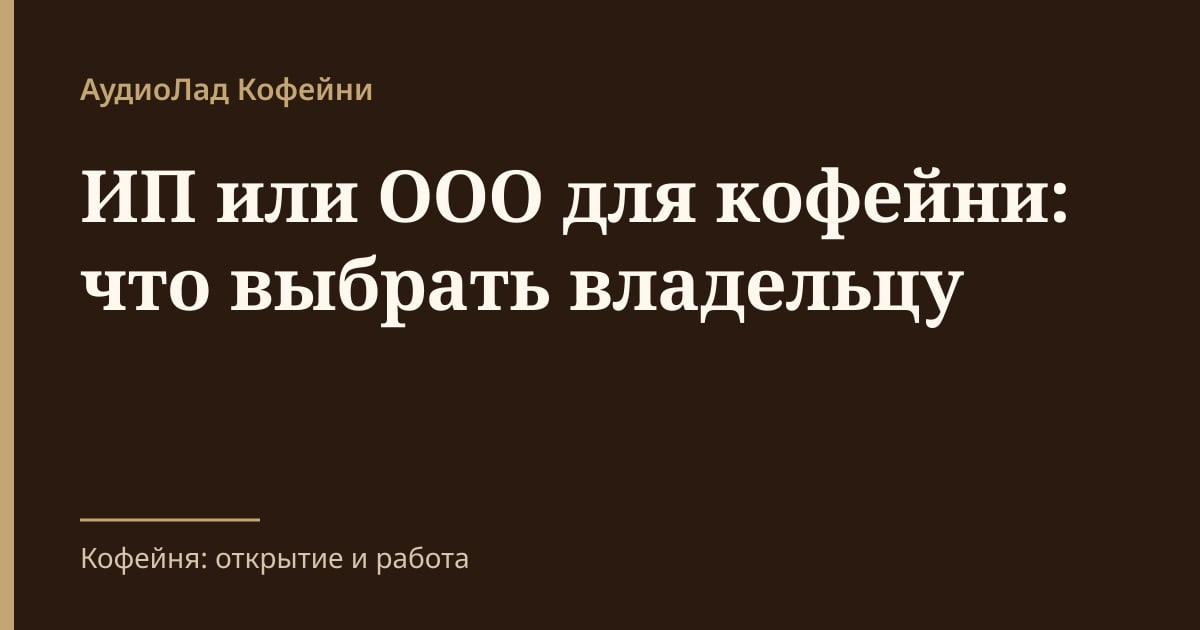
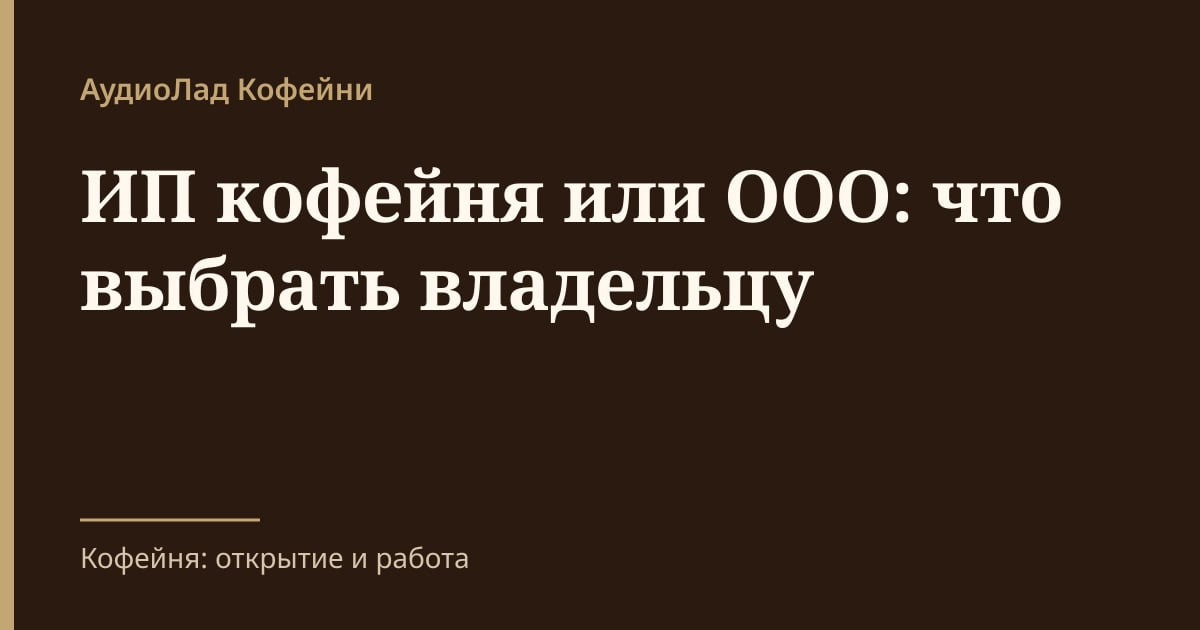
content(coffee): доводка набора №17 – шаблонные правки, unit 82

Changed region(s): [[0.0617, 0.2413, 0.8942, 0.5429]]

diff --git a/src/lib/business/vertical-guides/articles/ip-ili-ooo-dlya-kofeyni.ts b/src/lib/business/vertical-guides/articles/ip-ili-ooo-dlya-kofeyni.ts
@@ -8,9 +8,9 @@ import type { VerticalGuideArticle } from "../types";
 export const IP_ILI_OOO_DLYA_KOFEYNI: VerticalGuideArticle = {
   verticalId: "coffee",
   slug: "ip-ili-ooo-dlya-kofeyni",
-  title: "ИП или ООО для кофейни: что выбрать владельцу",
-  seoTitle: "Ип кофейня: как выбрать форму, налоги и учёт",
-  description: "Ип кофейня: как выбрать между предпринимателем и обществом, оценить ответственность, партнёров, прибыль, налоги и учёт для вашей кофейни.",
+  title: "ИП кофейня или ООО: что выбрать владельцу",
+  seoTitle: "ИП кофейня: как выбрать форму, налоги и учёт",
+  description: "ИП кофейня: как выбрать между предпринимателем и обществом, оценить ответственность, партнёров, прибыль, налоги и учёт для вашей кофейни.",
   publishedAt: "2026-11-11",
   updatedAt: "2026-11-11",
   primaryQuery: "ип кофейня",
@@ -28,13 +28,13 @@ export const IP_ILI_OOO_DLYA_KOFEYNI: VerticalGuideArticle = {
   },
   ogImage: {
     src: "/images/b/coffee/og/ip-ili-ooo-dlya-kofeyni.jpg",
-    alt: "ИП или ООО для кофейни: что выбрать владельцу – текстовая обложка АудиоЛад Кофейни",
+    alt: "ИП кофейня или ООО: что выбрать владельцу – текстовая обложка АудиоЛад Кофейни",
     width: 1200,
     height: 630
   },
   intro: [
     [
-      "Ип кофейня – это выбор между работой как предприниматель и запуском общества с долями, когда у проекта есть партнёры, общий порядок решений и разные сценарии получения дохода. Для кофейни это важно, потому что форма бизнеса влияет на ответственность, учёт, налоги и то, как удобно делить прибыль."
+      "ИП кофейня – это выбор между работой как предприниматель и запуском общества с долями, когда у проекта есть партнёры, общий порядок решений и разные сценарии получения дохода. Для кофейни это важно, потому что форма бизнеса влияет на ответственность, учёт, налоги и то, как удобно делить прибыль."
     ],
     [
       "В статье вы увидите, чем предприниматель отличается от общества, как устроены обязательства и распределение денег, а ещё что сверить с бухгалтером и юристом до регистрации. Отдельно есть материал о том, ",
@@ -69,7 +69,7 @@ export const IP_ILI_OOO_DLYA_KOFEYNI: VerticalGuideArticle = {
   partOne: [
     {
       id: "part-1a",
-      heading: "Ип кофейня: как выбрать между предпринимателем и обществом",
+      heading: "ИП кофейня: как выбрать между предпринимателем и обществом",
       paragraphs: [
         [
           "По общему правилу гражданин вправе вести предпринимательскую деятельность без образования юридического лица после регистрации как индивидуальный предприниматель. Это прямо следует из статьи 23 Гражданского кодекса Российской Федерации, часть первая от 30 ноября 1994 года №51-ФЗ. Для кофейни это удобный старт, если проект ведёте вы один и хотите простой контур управления."
@@ -124,7 +124,7 @@ export const IP_ILI_OOO_DLYA_KOFEYNI: VerticalGuideArticle = {
         "Ниже удобно сравнить не абстрактные плюсы, а рабочие вопросы кофейни. Так видно, где форма бизнеса помогает управлять проектом, а где нужны отдельные договорённости."
       ]
     ],
-    caption: "Ип кофейня: что сравнить перед выбором формы бизнеса",
+    caption: "ИП кофейня: что сравнить перед выбором формы бизнеса",
     columns: [
       "Вопрос владельца",
       "Предприниматель",

diff --git a/src/lib/business/vertical-guides/articles/rynok-kofeen.ts b/src/lib/business/vertical-guides/articles/rynok-kofeen.ts
@@ -54,7 +54,7 @@ export const RYNOK_KOFEEN: VerticalGuideArticle = {
   ],
   summary: [
     "Сначала смотрят рамку источника, потом сам показатель.",
-    "Оборот общепита шире кофейного сегмента.",
+    "Оборот общепита шире кофейного сегмента и не равен ему.",
     "Индекс физического объёма читают отдельно от денег.",
     "Территория и охват меняют смысл цифры.",
     "Вывод о спросе удобно превращать в гипотезу для кофейни."
@@ -99,7 +99,7 @@ export const RYNOK_KOFEEN: VerticalGuideArticle = {
       heading: "Паспорт данных для обзора рынка кофеен",
       paragraphs: [
         [
-          "Перед тем как делать вывод, полезно собрать паспорт источника. В нём остаются издатель, дата документа, дата публикации показателя, отчётный период, территория, охват и единица измерения. Когда эти элементы стоят рядом, цифра становится читаемой, а не случайной."
+          "Перед тем как делать вывод, полезно собрать паспорт источника. В нём остаются издатель, дата документа, срок выхода показателя, отчётный период, территория, охват и единица измерения. Когда эти элементы стоят рядом, цифра становится читаемой, а не случайной."
         ],
         [
           "Заголовок новости или поисковая выдача не подтверждают показатель. Для вашей кофейни надёжнее опираться на документ, где видно, что именно измерено и к какой территории это относится. Тогда можно сравнивать не эмоцию заголовка, а одинаковые рамки."
@@ -226,7 +226,7 @@ export const RYNOK_KOFEEN: VerticalGuideArticle = {
     },
     {
       id: "part-2b",
-      heading: "География и охват исследования",
+      heading: "География и охват данных",
       paragraphs: [
         [
           "География меняет смысл цифры не меньше, чем сам показатель. Данные по стране, региону, городу или отдельной сети отвечают на разные вопросы, и их удобно сравнивать только при одинаковом охвате. Для вашей кофейни это особенно полезно, если вы смотрите на локальный спрос и хотите понять, насколько источник вообще сопоставим с вашим форматом."

diff --git a/src/lib/business/vertical-guides/articles/konkurenty-kofeyni.ts b/src/lib/business/vertical-guides/articles/konkurenty-kofeyni.ts
@@ -119,7 +119,7 @@ export const KONKURENTY_KOFEYNI: VerticalGuideArticle = {
           "По Федеральному закону №152-ФЗ цель обработки персональных данных определяют заранее, а объём собираемых сведений должен ей соответствовать. Для сравнения публичных предложений удобно обходиться без записей о посетителях: достаточно того, что относится к формату, сервису и маршруту гостя. Так карта остаётся аккуратной и полезной для решения владельца."
         ],
         [
-          "Открытые сведения и собственные наблюдения лучше держать раздельно. В первой колонке можно писать то, что опубликовано, во второй – то, что вы увидели на месте, а в третьей – свой вывод для кофейни. Такой порядок помогает потом спокойно собрать матрицу сильных и слабых сторон без смешения фактов и предположений."
+          "Открытые сведения и собственные наблюдения лучше держать раздельно. В первой колонке можно писать то, что есть в открытых источниках, во второй – то, что вы увидели на месте, а в третьей – свой вывод для кофейни. Такой порядок помогает потом спокойно собрать матрицу сильных и слабых сторон без смешения фактов и предположений."
         ],
         [
           "Если сравнение потом пойдёт в рекламу, вступает статья 5 Федерального закона №38-ФЗ о рекламе: сравнение с другими товарами должно быть корректным, а заявления о преимуществах – соответствовать действительности. Поэтому рабочая запись полезна ещё и как защита от слишком широких формулировок в публичном тексте."

diff --git a/src/lib/business/vertical-guides/articles/reklama-kofeyni.ts b/src/lib/business/vertical-guides/articles/reklama-kofeyni.ts
@@ -327,7 +327,7 @@ export const REKLAMA_KOFEYNI: VerticalGuideArticle = {
     translation: "Гостей было не так много, и тогда мы начали очень активно заниматься маркетингом.",
     after: [
       [
-        "Для вашей кофейни это значит, что рекламу удобно запускать под конкретную задачу привлечения гостей, а не как абстрактный фон. Когда цель ясна, проще выбрать площадку, текст и способ учёта заявок."
+        "Рекламу удобно запускать под конкретную задачу привлечения гостей, а не как абстрактный фон. Когда цель ясна, проще выбрать площадку, текст и способ учёта заявок."
       ]
     ]
   },

diff --git a/docs/business/coffee-guides/packs/set-17-c99e2446-REPORT_RU.md b/docs/business/coffee-guides/packs/set-17-c99e2446-REPORT_RU.md
@@ -45,7 +45,7 @@
 Связанные существующие материалы: `/b/coffee/prodvizhenie-kofeyni`, `/b/coffee/banner-dlya-kofeyni`, `/b/coffee/listovka-kofeyni`, `/b/coffee/vyveska-dlya-kofeyni`, `/b/coffee/afisha-kofeyni`.
 
 
-### ИП или ООО для кофейни: что выбрать владельцу
+### ИП кофейня или ООО: что выбрать владельцу
 
 Слаг: `ip-ili-ooo-dlya-kofeyni` – свободен. Основной запрос: «ип кофейня» – 1627.
 
